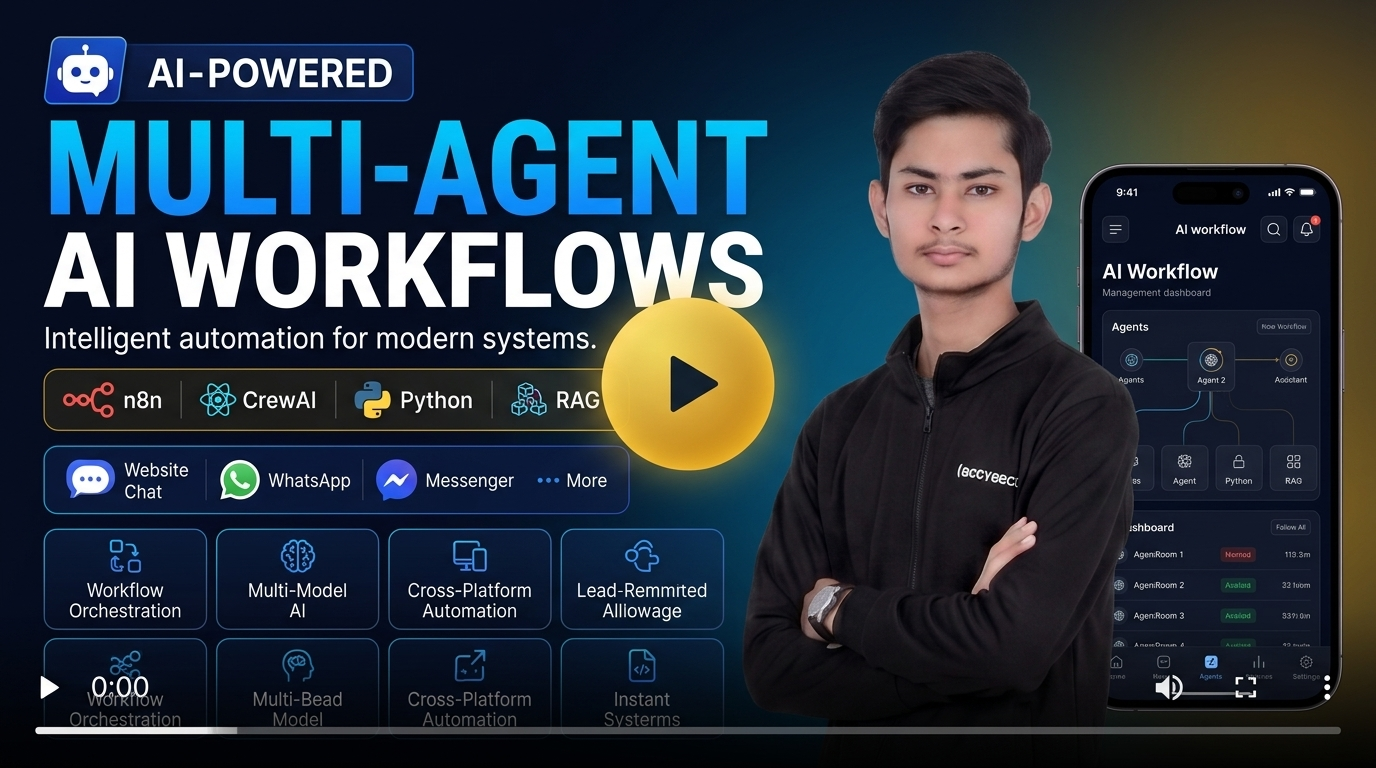
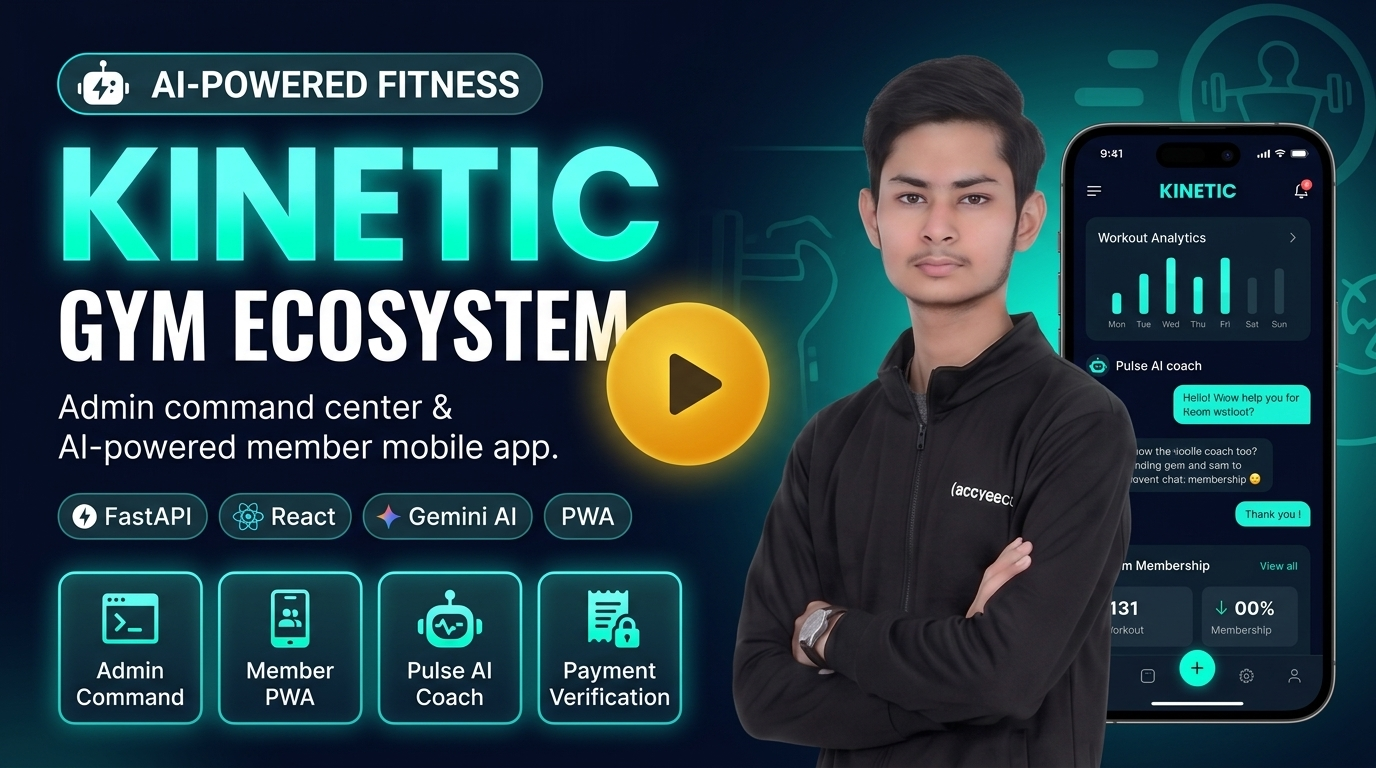
Update Video Demo section and thumbnail with exact Kinetic Gym Ecosystem project details

diff --git a/index.html b/index.html
@@ -383,12 +383,12 @@
         </div>
     </section>
 
-    <!-- Video Showcase Section (Saad Saleem Style) -->
+    <!-- Video Showcase Section (Kinetic Gym Ecosystem) -->
     <section id="demo" class="video-showcase">
         <div class="container">
             <div class="section-header" style="text-align: center;">
-                <div class="section-label">Featured Demo</div>
-                <h2 class="section-title">See my systems in <span class="gradient-text">action</span></h2>
+                <div class="section-label">Project Demo</div>
+                <h2 class="section-title">Kinetic in <span class="gradient-text">action</span></h2>
             </div>
             <div class="video-wrapper">
                 <div class="video-container">
@@ -400,9 +400,9 @@
                 <div class="video-caption">
                     <span class="video-badge">
                         <svg width="14" height="14" viewBox="0 0 24 24" fill="currentColor"><polygon points="5 3 19 12 5 21 5 3"/></svg>
-                        System Walkthrough & Video Showcase
+                        Kinetic Gym Ecosystem & Pulse AI Demo
                     </span>
-                    <p>An in-depth video demonstration highlighting workflow automation, AI system architecture, and real-time execution.</p>
+                    <p>A comprehensive walkthrough of the Kinetic Gym Ecosystem — featuring the Executive Admin Command Center, Member Mobile PWA, and Pulse AI Assistant built with FastAPI, React, and Google Gemini AI.</p>
                 </div>
             </div>
         </div>
